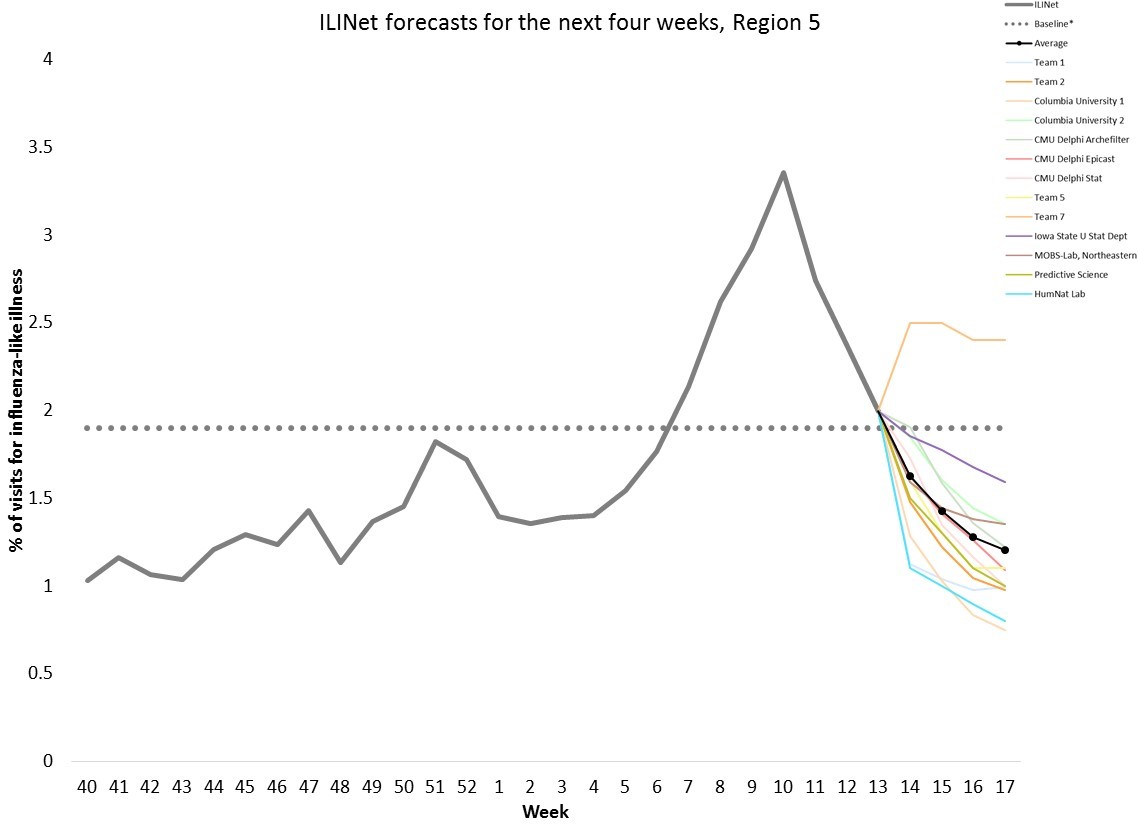
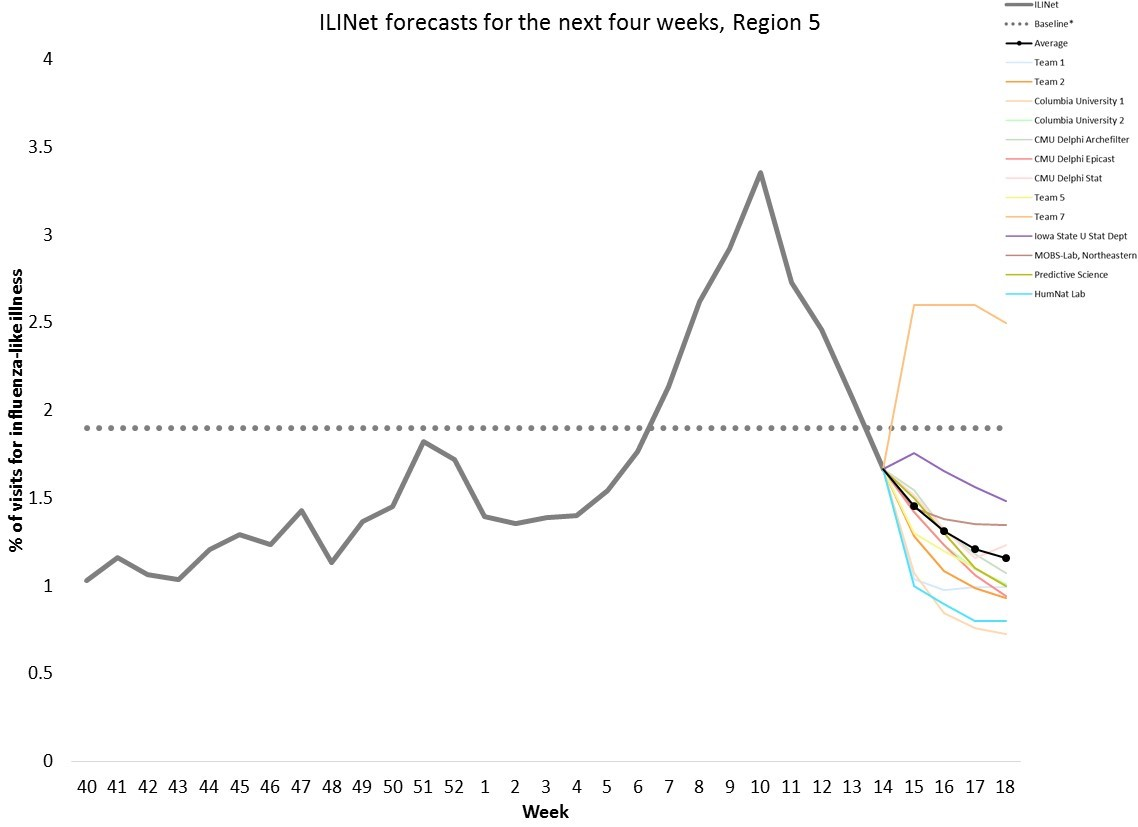
update april 19

diff --git a/flu/forecasts.html b/flu/forecasts.html
@@ -97,7 +97,7 @@
    <div class="row col-xs-12" style="height:10px;"></div>
 </div>-->
 <div class="row">
-   <div><h5>Last update: April 12, 2016</h5></div>
+   <div><h5>Last update: April 19, 2016</h5></div>
 </div>
 
 <ul class="nav nav-tabs nav-justified">
